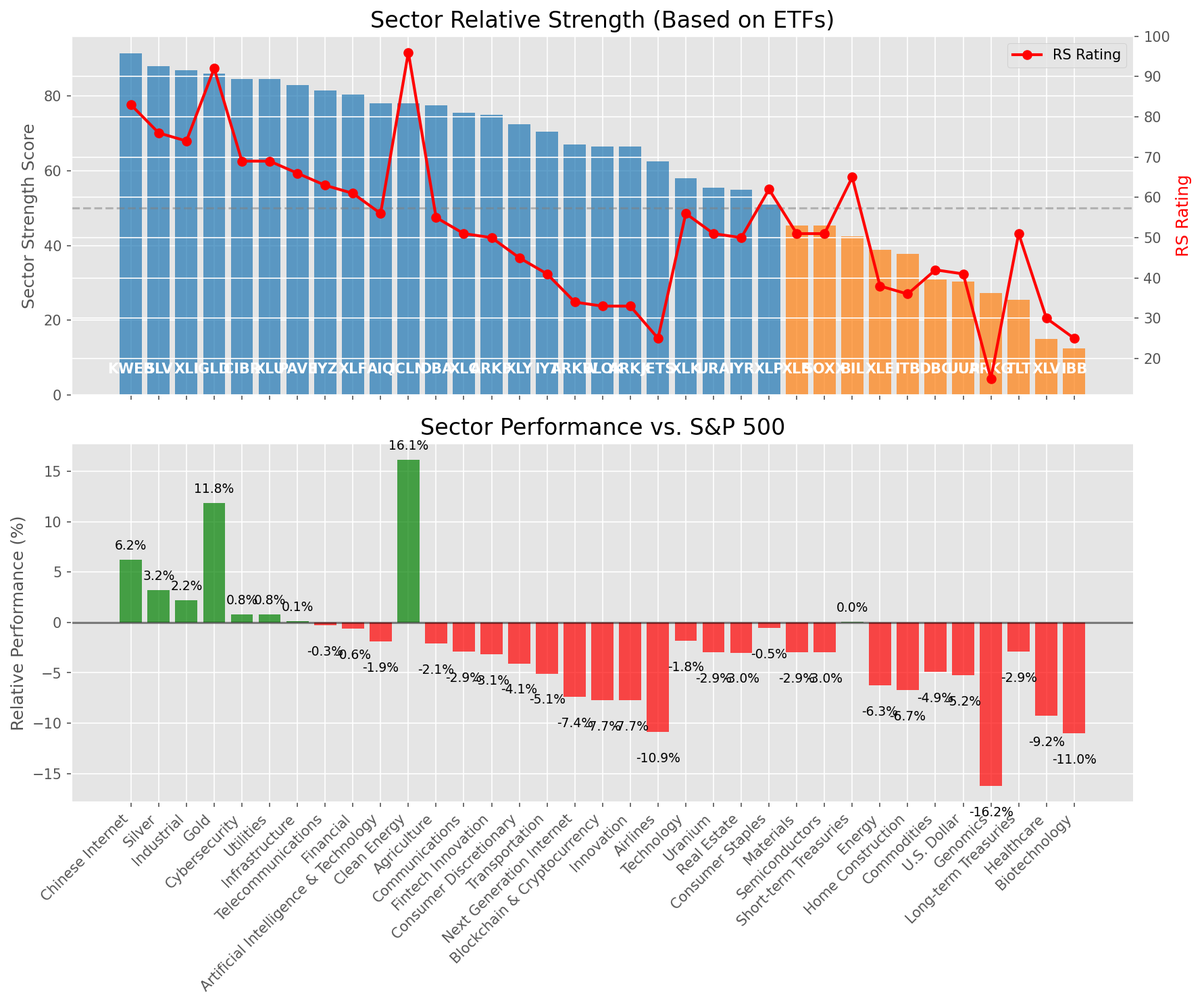
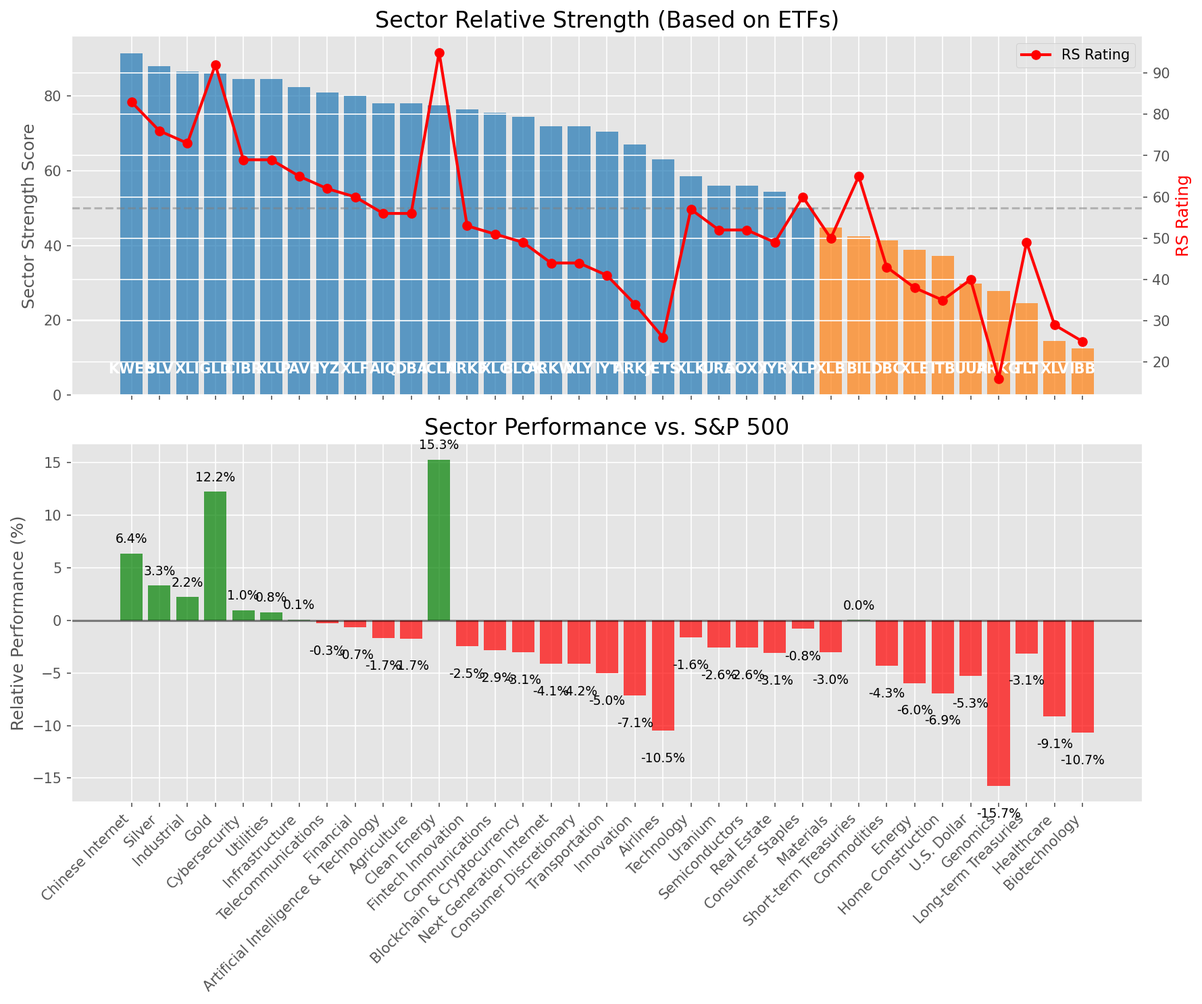
Add market report for 2025-05-13

diff --git a/oneil_relative_strength_report_2025-05-13.md b/oneil_relative_strength_report_2025-05-13.md
@@ -49,41 +49,41 @@ Based on William O'Neil's Relative Strength Methodology
 
 | ETF | Strength | RS Rating | Performance | Above Key MAs | Trend | Sector |
 |-----|----------|-----------|-------------|--------------|-------|--------|
-| [KWEB](https://www.tradingview.com/chart/?symbol=KWEB) | 91.5 | 83.0 | 6.22% | 10d ✓, 50d ✓, 200d ✓ | ↗ | Chinese Internet |
-| [SLV](https://www.tradingview.com/chart/?symbol=SLV) | 88.0 | 76.0 | 3.21% | 10d ✓, 50d ✓, 200d ✓ | ↗ | Silver |
-| [XLI](https://www.tradingview.com/chart/?symbol=XLI) | 87.0 | 74.0 | 2.20% | 10d ✓, 50d ✓, 200d ✓ | ↗ | Industrial |
-| [GLD](https://www.tradingview.com/chart/?symbol=GLD) | 86.1 | 92.0 | 11.84% | 10d ✗, 50d ✓, 200d ✓ | ↗ | Gold |
-| [CIBR](https://www.tradingview.com/chart/?symbol=CIBR) | 84.5 | 69.0 | 0.81% | 10d ✓, 50d ✓, 200d ✓ | ↗ | Cybersecurity |
-| [XLU](https://www.tradingview.com/chart/?symbol=XLU) | 84.5 | 69.0 | 0.78% | 10d ✓, 50d ✓, 200d ✓ | ↗ | Utilities |
-| [PAVE](https://www.tradingview.com/chart/?symbol=PAVE) | 83.0 | 66.0 | 0.11% | 10d ✓, 50d ✓, 200d ✓ | ↗ | Infrastructure |
-| [IYZ](https://www.tradingview.com/chart/?symbol=IYZ) | 81.5 | 63.0 | -0.29% | 10d ✓, 50d ✓, 200d ✓ | ↗ | Telecommunications |
-| [XLF](https://www.tradingview.com/chart/?symbol=XLF) | 80.5 | 61.0 | -0.64% | 10d ✓, 50d ✓, 200d ✓ | ↗ | Financial |
-| [AIQ](https://www.tradingview.com/chart/?symbol=AIQ) | 78.0 | 56.0 | -1.90% | 10d ✓, 50d ✓, 200d ✓ | ↗ | Artificial Intelligence & Technology |
-| [ICLN](https://www.tradingview.com/chart/?symbol=ICLN) | 78.0 | 96.0 | 16.14% | 10d ✓, 50d ✓, 200d ✓ | ↘ | Clean Energy |
-| [DBA](https://www.tradingview.com/chart/?symbol=DBA) | 77.5 | 55.0 | -2.10% | 10d ✓, 50d ✓, 200d ✓ | ↗ | Agriculture |
-| [XLC](https://www.tradingview.com/chart/?symbol=XLC) | 75.5 | 51.0 | -2.92% | 10d ✓, 50d ✓, 200d ✓ | ↗ | Communications |
-| [ARKF](https://www.tradingview.com/chart/?symbol=ARKF) | 75.0 | 50.0 | -3.14% | 10d ✓, 50d ✓, 200d ✓ | ↗ | Fintech Innovation |
-| [XLY](https://www.tradingview.com/chart/?symbol=XLY) | 72.5 | 45.0 | -4.07% | 10d ✓, 50d ✓, 200d ✓ | ↗ | Consumer Discretionary |
-| [IYT](https://www.tradingview.com/chart/?symbol=IYT) | 70.5 | 41.0 | -5.07% | 10d ✓, 50d ✓, 200d ✓ | ↗ | Transportation |
-| [ARKW](https://www.tradingview.com/chart/?symbol=ARKW) | 67.0 | 34.0 | -7.39% | 10d ✓, 50d ✓, 200d ✓ | ↗ | Next Generation Internet |
-| [BLOK](https://www.tradingview.com/chart/?symbol=BLOK) | 66.5 | 33.0 | -7.72% | 10d ✓, 50d ✓, 200d ✓ | ↗ | Blockchain & Cryptocurrency |
-| [ARKK](https://www.tradingview.com/chart/?symbol=ARKK) | 66.5 | 33.0 | -7.72% | 10d ✓, 50d ✓, 200d ✓ | ↗ | Innovation |
-| [JETS](https://www.tradingview.com/chart/?symbol=JETS) | 62.5 | 25.0 | -10.86% | 10d ✓, 50d ✓, 200d ✓ | ↗ | Airlines |
-| [XLK](https://www.tradingview.com/chart/?symbol=XLK) | 58.0 | 56.0 | -1.83% | 10d ✓, 50d ✓, 200d ✓ | ↘ | Technology |
-| [URA](https://www.tradingview.com/chart/?symbol=URA) | 55.5 | 51.0 | -2.94% | 10d ✓, 50d ✓, 200d ✓ | ↘ | Uranium |
-| [IYR](https://www.tradingview.com/chart/?symbol=IYR) | 54.9 | 50.0 | -3.00% | 10d ✗, 50d ✓, 200d ✗ | ↗ | Real Estate |
-| [XLP](https://www.tradingview.com/chart/?symbol=XLP) | 51.0 | 62.0 | -0.53% | 10d ✗, 50d ✗, 200d ✗ | ↗ | Consumer Staples |
-| [XLB](https://www.tradingview.com/chart/?symbol=XLB) | 45.3 | 51.0 | -2.95% | 10d ✓, 50d ✓, 200d ✗ | ↘ | Materials |
-| [SOXX](https://www.tradingview.com/chart/?symbol=SOXX) | 45.3 | 51.0 | -2.96% | 10d ✓, 50d ✓, 200d ✗ | ↘ | Semiconductors |
-| [BIL](https://www.tradingview.com/chart/?symbol=BIL) | 42.4 | 65.0 | 0.03% | 10d ✓, 50d ✗, 200d ✗ | ↘ | Short-term Treasuries |
-| [XLE](https://www.tradingview.com/chart/?symbol=XLE) | 38.8 | 38.0 | -6.25% | 10d ✓, 50d ✓, 200d ✗ | ↘ | Energy |
-| [ITB](https://www.tradingview.com/chart/?symbol=ITB) | 37.8 | 36.0 | -6.73% | 10d ✓, 50d ✓, 200d ✗ | ↘ | Home Construction |
-| [DBC](https://www.tradingview.com/chart/?symbol=DBC) | 30.9 | 42.0 | -4.90% | 10d ✓, 50d ✗, 200d ✗ | ↘ | Commodities |
-| [UUP](https://www.tradingview.com/chart/?symbol=UUP) | 30.4 | 41.0 | -5.23% | 10d ✓, 50d ✗, 200d ✗ | ↘ | U.S. Dollar |
-| [ARKG](https://www.tradingview.com/chart/?symbol=ARKG) | 27.3 | 15.0 | -16.23% | 10d ✓, 50d ✓, 200d ✗ | ↘ | Genomics |
-| [TLT](https://www.tradingview.com/chart/?symbol=TLT) | 25.5 | 51.0 | -2.89% | 10d ✗, 50d ✗, 200d ✗ | ↘ | Long-term Treasuries |
-| [XLV](https://www.tradingview.com/chart/?symbol=XLV) | 15.0 | 30.0 | -9.24% | 10d ✗, 50d ✗, 200d ✗ | ↘ | Healthcare |
-| [IBB](https://www.tradingview.com/chart/?symbol=IBB) | 12.5 | 25.0 | -11.01% | 10d ✗, 50d ✗, 200d ✗ | ↘ | Biotechnology |
+| [KWEB](https://www.tradingview.com/chart/?symbol=KWEB) | 91.5 | 83.0 | 6.37% | 10d ✓, 50d ✓, 200d ✓ | ↗ | Chinese Internet |
+| [SLV](https://www.tradingview.com/chart/?symbol=SLV) | 88.0 | 76.0 | 3.31% | 10d ✓, 50d ✓, 200d ✓ | ↗ | Silver |
+| [XLI](https://www.tradingview.com/chart/?symbol=XLI) | 86.5 | 73.0 | 2.23% | 10d ✓, 50d ✓, 200d ✓ | ↗ | Industrial |
+| [GLD](https://www.tradingview.com/chart/?symbol=GLD) | 86.1 | 92.0 | 12.23% | 10d ✗, 50d ✓, 200d ✓ | ↗ | Gold |
+| [CIBR](https://www.tradingview.com/chart/?symbol=CIBR) | 84.5 | 69.0 | 0.97% | 10d ✓, 50d ✓, 200d ✓ | ↗ | Cybersecurity |
+| [XLU](https://www.tradingview.com/chart/?symbol=XLU) | 84.5 | 69.0 | 0.77% | 10d ✓, 50d ✓, 200d ✓ | ↗ | Utilities |
+| [PAVE](https://www.tradingview.com/chart/?symbol=PAVE) | 82.5 | 65.0 | 0.06% | 10d ✓, 50d ✓, 200d ✓ | ↗ | Infrastructure |
+| [IYZ](https://www.tradingview.com/chart/?symbol=IYZ) | 81.0 | 62.0 | -0.29% | 10d ✓, 50d ✓, 200d ✓ | ↗ | Telecommunications |
+| [XLF](https://www.tradingview.com/chart/?symbol=XLF) | 80.0 | 60.0 | -0.68% | 10d ✓, 50d ✓, 200d ✓ | ↗ | Financial |
+| [AIQ](https://www.tradingview.com/chart/?symbol=AIQ) | 78.0 | 56.0 | -1.67% | 10d ✓, 50d ✓, 200d ✓ | ↗ | Artificial Intelligence & Technology |
+| [DBA](https://www.tradingview.com/chart/?symbol=DBA) | 78.0 | 56.0 | -1.72% | 10d ✓, 50d ✓, 200d ✓ | ↗ | Agriculture |
+| [ICLN](https://www.tradingview.com/chart/?symbol=ICLN) | 77.5 | 95.0 | 15.29% | 10d ✓, 50d ✓, 200d ✓ | ↘ | Clean Energy |
+| [ARKF](https://www.tradingview.com/chart/?symbol=ARKF) | 76.5 | 53.0 | -2.47% | 10d ✓, 50d ✓, 200d ✓ | ↗ | Fintech Innovation |
+| [XLC](https://www.tradingview.com/chart/?symbol=XLC) | 75.5 | 51.0 | -2.86% | 10d ✓, 50d ✓, 200d ✓ | ↗ | Communications |
+| [BLOK](https://www.tradingview.com/chart/?symbol=BLOK) | 74.5 | 49.0 | -3.05% | 10d ✓, 50d ✓, 200d ✓ | ↗ | Blockchain & Cryptocurrency |
+| [ARKW](https://www.tradingview.com/chart/?symbol=ARKW) | 72.0 | 44.0 | -4.12% | 10d ✓, 50d ✓, 200d ✓ | ↗ | Next Generation Internet |
+| [XLY](https://www.tradingview.com/chart/?symbol=XLY) | 72.0 | 44.0 | -4.15% | 10d ✓, 50d ✓, 200d ✓ | ↗ | Consumer Discretionary |
+| [IYT](https://www.tradingview.com/chart/?symbol=IYT) | 70.5 | 41.0 | -5.03% | 10d ✓, 50d ✓, 200d ✓ | ↗ | Transportation |
+| [ARKK](https://www.tradingview.com/chart/?symbol=ARKK) | 67.0 | 34.0 | -7.14% | 10d ✓, 50d ✓, 200d ✓ | ↗ | Innovation |
+| [JETS](https://www.tradingview.com/chart/?symbol=JETS) | 63.0 | 26.0 | -10.49% | 10d ✓, 50d ✓, 200d ✓ | ↗ | Airlines |
+| [XLK](https://www.tradingview.com/chart/?symbol=XLK) | 58.5 | 57.0 | -1.62% | 10d ✓, 50d ✓, 200d ✓ | ↘ | Technology |
+| [URA](https://www.tradingview.com/chart/?symbol=URA) | 56.0 | 52.0 | -2.59% | 10d ✓, 50d ✓, 200d ✓ | ↘ | Uranium |
+| [SOXX](https://www.tradingview.com/chart/?symbol=SOXX) | 56.0 | 52.0 | -2.61% | 10d ✓, 50d ✓, 200d ✓ | ↘ | Semiconductors |
+| [IYR](https://www.tradingview.com/chart/?symbol=IYR) | 54.4 | 49.0 | -3.12% | 10d ✗, 50d ✓, 200d ✗ | ↗ | Real Estate |
+| [XLP](https://www.tradingview.com/chart/?symbol=XLP) | 50.0 | 60.0 | -0.78% | 10d ✗, 50d ✗, 200d ✗ | ↗ | Consumer Staples |
+| [XLB](https://www.tradingview.com/chart/?symbol=XLB) | 44.8 | 50.0 | -3.02% | 10d ✓, 50d ✓, 200d ✗ | ↘ | Materials |
+| [BIL](https://www.tradingview.com/chart/?symbol=BIL) | 42.4 | 65.0 | 0.02% | 10d ✓, 50d ✗, 200d ✗ | ↘ | Short-term Treasuries |
+| [DBC](https://www.tradingview.com/chart/?symbol=DBC) | 41.3 | 43.0 | -4.34% | 10d ✓, 50d ✓, 200d ✗ | ↘ | Commodities |
+| [XLE](https://www.tradingview.com/chart/?symbol=XLE) | 38.8 | 38.0 | -5.96% | 10d ✓, 50d ✓, 200d ✗ | ↘ | Energy |
+| [ITB](https://www.tradingview.com/chart/?symbol=ITB) | 37.3 | 35.0 | -6.93% | 10d ✓, 50d ✓, 200d ✗ | ↘ | Home Construction |
+| [UUP](https://www.tradingview.com/chart/?symbol=UUP) | 29.9 | 40.0 | -5.27% | 10d ✓, 50d ✗, 200d ✗ | ↘ | U.S. Dollar |
+| [ARKG](https://www.tradingview.com/chart/?symbol=ARKG) | 27.8 | 16.0 | -15.75% | 10d ✓, 50d ✓, 200d ✗ | ↘ | Genomics |
+| [TLT](https://www.tradingview.com/chart/?symbol=TLT) | 24.5 | 49.0 | -3.13% | 10d ✗, 50d ✗, 200d ✗ | ↘ | Long-term Treasuries |
+| [XLV](https://www.tradingview.com/chart/?symbol=XLV) | 14.5 | 29.0 | -9.14% | 10d ✗, 50d ✗, 200d ✗ | ↘ | Healthcare |
+| [IBB](https://www.tradingview.com/chart/?symbol=IBB) | 12.5 | 25.0 | -10.70% | 10d ✗, 50d ✗, 200d ✗ | ↘ | Biotechnology |
 
 ### **Sector ETF Performance Interpretation**
 
@@ -100,175 +100,180 @@ This table shows the relative strength metrics for different market sectors base
 
 The current market leadership is coming from the following sectors: **Chinese Internet, Silver, Industrial**.
 
-The **Chinese Internet** sector (represented by **KWEB**) is showing particularly strong relative strength with an RS rating of 83.0 and performance of 6.22% vs. the S&P 500. This sector is trading above its 10-day, 50-day, 200-day moving average(s). Investors should consider focusing on high RS stocks within these leading sectors for potential outperformance.
+The **Chinese Internet** sector (represented by **KWEB**) is showing particularly strong relative strength with an RS rating of 83.0 and performance of 6.37% vs. the S&P 500. This sector is trading above its 10-day, 50-day, 200-day moving average(s). Investors should consider focusing on high RS stocks within these leading sectors for potential outperformance.
 
 ---
 
 ## **Buy Recommendations**
 
-The following 72 stocks show exceptional relative strength:
+The following 76 stocks show exceptional relative strength:
 
 | RS Rating | Buy Score | Current Price | Chart | Name | Ticker |
 |-----------|-----------|---------------|-------|------|--------|
-| 100 | 100 | $27.57 | [Chart](https://www.tradingview.com/chart/?symbol=DB) | Deutsche Bank Aktiengesellschaft | DB |
-| 100 | 100 | $48.79 | [Chart](https://www.tradingview.com/chart/?symbol=MRX) | Marex Group plc Ordinary Shares | MRX |
+| 100 | 100 | $48.96 | [Chart](https://www.tradingview.com/chart/?symbol=MRX) | Marex Group plc Ordinary Shares | MRX |
+| 100 | 100 | $27.64 | [Chart](https://www.tradingview.com/chart/?symbol=DB) | Deutsche Bank Aktiengesellschaft | DB |
+| 100 | 100 | $89.70 | [Chart](https://www.tradingview.com/chart/?symbol=SEZL) | Sezzle Inc. Common Stock | SEZL |
+| 100 | 100 | $177.12 | [Chart](https://www.tradingview.com/chart/?symbol=DAVE) | Dave Inc. Class A Common Stock | DAVE |
+| 100 | 100 | $23.01 | [Chart](https://www.tradingview.com/chart/?symbol=PRA) | ProAssurance Corporation | PRA |
 | 100 | 100 | $155.30 | [Chart](https://www.tradingview.com/chart/?symbol=PLMR) | Palomar Holdings, Inc. Common stock | PLMR |
-| 100 | 100 | $23.00 | [Chart](https://www.tradingview.com/chart/?symbol=PRA) | ProAssurance Corporation | PRA |
-| 100 | 100 | $176.68 | [Chart](https://www.tradingview.com/chart/?symbol=DAVE) | Dave Inc. Class A Common Stock | DAVE |
-| 100 | 100 | $89.03 | [Chart](https://www.tradingview.com/chart/?symbol=SEZL) | Sezzle Inc. Common Stock | SEZL |
-| 99 | 100 | $410.20 | [Chart](https://www.tradingview.com/chart/?symbol=MSTR) | MicroStrategy Inc | MSTR |
-| 99 | 100 | $153.06 | [Chart](https://www.tradingview.com/chart/?symbol=ROOT) | Root, Inc. Class A Common Stock | ROOT |
-| 99 | 100 | $23.82 | [Chart](https://www.tradingview.com/chart/?symbol=CRK) | Comstock Resources, Inc. | CRK |
-| 99 | 100 | $24.17 | [Chart](https://www.tradingview.com/chart/?symbol=GRND) | Grindr Inc. | GRND |
-| 99 | 100 | $34.55 | [Chart](https://www.tradingview.com/chart/?symbol=AHR) | American Healthcare REIT, Inc. | AHR |
-| 99 | 100 | $70.39 | [Chart](https://www.tradingview.com/chart/?symbol=ULS) | UL Solutions Inc. | ULS |
-| 98 | 100 | $159.33 | [Chart](https://www.tradingview.com/chart/?symbol=HWM) | Howmet Aerospace Inc. | HWM |
-| 98 | 100 | $222.87 | [Chart](https://www.tradingview.com/chart/?symbol=CRS) | Carpenter Technology Corp | CRS |
+| 99 | 100 | $414.40 | [Chart](https://www.tradingview.com/chart/?symbol=MSTR) | MicroStrategy Inc | MSTR |
+| 99 | 100 | $151.14 | [Chart](https://www.tradingview.com/chart/?symbol=ROOT) | Root, Inc. Class A Common Stock | ROOT |
+| 99 | 100 | $23.92 | [Chart](https://www.tradingview.com/chart/?symbol=CRK) | Comstock Resources, Inc. | CRK |
+| 99 | 100 | $70.11 | [Chart](https://www.tradingview.com/chart/?symbol=ULS) | UL Solutions Inc. | ULS |
+| 99 | 100 | $34.68 | [Chart](https://www.tradingview.com/chart/?symbol=AHR) | American Healthcare REIT, Inc. | AHR |
+| 99 | 100 | $23.96 | [Chart](https://www.tradingview.com/chart/?symbol=GRND) | Grindr Inc. | GRND |
+| 98 | 100 | $129.37 | [Chart](https://www.tradingview.com/chart/?symbol=ATGE) | Adtalem Global Education Inc. Common Shares | ATGE |
 | 98 | 100 | $131.44 | [Chart](https://www.tradingview.com/chart/?symbol=VSEC) | VSE Corp | VSEC |
-| 98 | 100 | $131.89 | [Chart](https://www.tradingview.com/chart/?symbol=ATGE) | Adtalem Global Education Inc. Common Shares | ATGE |
-| 97 | 100 | $41.05 | [Chart](https://www.tradingview.com/chart/?symbol=DRS) | Leonardo DRS, Inc. Common Stock | DRS |
-| 97 | 100 | $152.79 | [Chart](https://www.tradingview.com/chart/?symbol=SE) | Sea Limited American Depositary Shares, each representing one Class A Ordinary Share | SE |
-| 97 | 100 | $49.50 | [Chart](https://www.tradingview.com/chart/?symbol=ERJ) | Embraer S.A. | ERJ |
-| 97 | 100 | $38.20 | [Chart](https://www.tradingview.com/chart/?symbol=PAY) | Paymentus Holdings, Inc. | PAY |
-| 97 | 100 | $30.80 | [Chart](https://www.tradingview.com/chart/?symbol=EUFN) | iShares MSCI Europe Financials ETF | EUFN |
-| 96 | 100 | $62.05 | [Chart](https://www.tradingview.com/chart/?symbol=HOOD) | Robinhood Markets, Inc. Class A Common Stock | HOOD |
-| 96 | 100 | $148.79 | [Chart](https://www.tradingview.com/chart/?symbol=CAH) | Cardinal Health, Inc. | CAH |
-| 96 | 100 | $124.50 | [Chart](https://www.tradingview.com/chart/?symbol=COOP) | Mr. Cooper Group Inc. Common Stock | COOP |
-| 96 | 100 | $129.18 | [Chart](https://www.tradingview.com/chart/?symbol=HIG) | The Hartford Insurance Group, Inc. | HIG |
-| 95 | 100 | $27.87 | [Chart](https://www.tradingview.com/chart/?symbol=FMS) | Fresenius Medical Care AG | FMS |
-| 95 | 100 | $33.66 | [Chart](https://www.tradingview.com/chart/?symbol=SLM) | SLM Corporation | SLM |
+| 98 | 100 | $41.10 | [Chart](https://www.tradingview.com/chart/?symbol=EWP) | iShares MSCI Spain ETF | EWP |
+| 98 | 100 | $159.51 | [Chart](https://www.tradingview.com/chart/?symbol=HWM) | Howmet Aerospace Inc. | HWM |
+| 98 | 100 | $38.38 | [Chart](https://www.tradingview.com/chart/?symbol=PAY) | Paymentus Holdings, Inc. | PAY |
+| 97 | 100 | $63.25 | [Chart](https://www.tradingview.com/chart/?symbol=HOOD) | Robinhood Markets, Inc. Class A Common Stock | HOOD |
+| 97 | 100 | $223.95 | [Chart](https://www.tradingview.com/chart/?symbol=CRS) | Carpenter Technology Corp | CRS |
+| 97 | 100 | $126.92 | [Chart](https://www.tradingview.com/chart/?symbol=COOP) | Mr. Cooper Group Inc. Common Stock | COOP |
+| 97 | 100 | $153.42 | [Chart](https://www.tradingview.com/chart/?symbol=SE) | Sea Limited American Depositary Shares, each representing one Class A Ordinary Share | SE |
+| 96 | 100 | $33.78 | [Chart](https://www.tradingview.com/chart/?symbol=SLM) | SLM Corporation | SLM |
+| 96 | 100 | $117.51 | [Chart](https://www.tradingview.com/chart/?symbol=EHC) | Encompass Health Corporation Common Stock | EHC |
+| 96 | 100 | $49.19 | [Chart](https://www.tradingview.com/chart/?symbol=ERJ) | Embraer S.A. | ERJ |
+| 96 | 100 | $30.77 | [Chart](https://www.tradingview.com/chart/?symbol=EUFN) | iShares MSCI Europe Financials ETF | EUFN |
 | 95 | 100 | $40.57 | [Chart](https://www.tradingview.com/chart/?symbol=EWG) | iShares MSCI Germany ETF | EWG |
-| 95 | 100 | $76.48 | [Chart](https://www.tradingview.com/chart/?symbol=RBLX) | Roblox Corporation | RBLX |
-| 94 | 100 | $87.62 | [Chart](https://www.tradingview.com/chart/?symbol=TGLS) | Tecnoglass Inc. | TGLS |
-| 94 | 100 | $82.31 | [Chart](https://www.tradingview.com/chart/?symbol=RBRK) | Rubrik, Inc. | RBRK |
-| 94 | 100 | $61.79 | [Chart](https://www.tradingview.com/chart/?symbol=CHEF) | The Chef's Warehouse Inc | CHEF |
-| 94 | 100 | $1140.11 | [Chart](https://www.tradingview.com/chart/?symbol=NFLX) | NetFlix Inc | NFLX |
+| 95 | 100 | $27.99 | [Chart](https://www.tradingview.com/chart/?symbol=FMS) | Fresenius Medical Care AG | FMS |
+| 95 | 100 | $83.60 | [Chart](https://www.tradingview.com/chart/?symbol=RBRK) | Rubrik, Inc. | RBRK |
+| 95 | 100 | $129.00 | [Chart](https://www.tradingview.com/chart/?symbol=HIG) | The Hartford Insurance Group, Inc. | HIG |
+| 95 | 100 | $76.29 | [Chart](https://www.tradingview.com/chart/?symbol=RBLX) | Roblox Corporation | RBLX |
+| 94 | 100 | $127.82 | [Chart](https://www.tradingview.com/chart/?symbol=PLTR) | Palantir Technologies Inc. Class A Common Stock | PLTR |
 | 94 | 100 | $40.87 | [Chart](https://www.tradingview.com/chart/?symbol=AB) | AllianceBernstein Holding, L.P. | AB |
-| 93 | 100 | $320.58 | [Chart](https://www.tradingview.com/chart/?symbol=PODD) | Insulet Corporation | PODD |
-| 93 | 100 | $31.43 | [Chart](https://www.tradingview.com/chart/?symbol=UTI) | Universal Technical Institute, Inc. | UTI |
-| 92 | 100 | $23.75 | [Chart](https://www.tradingview.com/chart/?symbol=SRAD) | Sportradar Group AG Class A Ordinary Shares | SRAD |
-| 92 | 100 | $16.96 | [Chart](https://www.tradingview.com/chart/?symbol=BCS) | Barclays PLC | BCS |
-| 92 | 100 | $44.61 | [Chart](https://www.tradingview.com/chart/?symbol=TOST) | Toast, Inc. | TOST |
-| 92 | 100 | $298.40 | [Chart](https://www.tradingview.com/chart/?symbol=PEN) | Penumbra, Inc. | PEN |
-| 91 | 100 | $124.91 | [Chart](https://www.tradingview.com/chart/?symbol=PLTR) | Palantir Technologies Inc. Class A Common Stock | PLTR |
-| 91 | 100 | $104.27 | [Chart](https://www.tradingview.com/chart/?symbol=RBA) | RB Global, Inc. | RBA |
-| 90 | 100 | $95.44 | [Chart](https://www.tradingview.com/chart/?symbol=HEES) | H&E Equipment Services, Inc. | HEES |
+| 94 | 100 | $61.79 | [Chart](https://www.tradingview.com/chart/?symbol=CHEF) | The Chef's Warehouse Inc | CHEF |
+| 94 | 100 | $31.72 | [Chart](https://www.tradingview.com/chart/?symbol=UTI) | Universal Technical Institute, Inc. | UTI |
+| 93 | 100 | $22.43 | [Chart](https://www.tradingview.com/chart/?symbol=LAUR) | Laureate Education, Inc. Common Stock | LAUR |
+| 93 | 100 | $46.48 | [Chart](https://www.tradingview.com/chart/?symbol=QFIN) | Qifu Technology, Inc. American Depositary Shares | QFIN |
+| 93 | 100 | $320.21 | [Chart](https://www.tradingview.com/chart/?symbol=PODD) | Insulet Corporation | PODD |
+| 93 | 100 | $87.24 | [Chart](https://www.tradingview.com/chart/?symbol=TGLS) | Tecnoglass Inc. | TGLS |
+| 93 | 100 | $23.97 | [Chart](https://www.tradingview.com/chart/?symbol=SRAD) | Sportradar Group AG Class A Ordinary Shares | SRAD |
+| 93 | 100 | $1140.56 | [Chart](https://www.tradingview.com/chart/?symbol=NFLX) | NetFlix Inc | NFLX |
+| 92 | 100 | $44.87 | [Chart](https://www.tradingview.com/chart/?symbol=TOST) | Toast, Inc. | TOST |
+| 91 | 100 | $298.87 | [Chart](https://www.tradingview.com/chart/?symbol=PEN) | Penumbra, Inc. | PEN |
+| 91 | 100 | $16.98 | [Chart](https://www.tradingview.com/chart/?symbol=BCS) | Barclays PLC | BCS |
+| 91 | 100 | $104.04 | [Chart](https://www.tradingview.com/chart/?symbol=RBA) | RB Global, Inc. | RBA |
 | 90 | 100 | $100.54 | [Chart](https://www.tradingview.com/chart/?symbol=AXS) | Axis Capital Holders Limited | AXS |
-| 90 | 100 | $52.34 | [Chart](https://www.tradingview.com/chart/?symbol=EPR) | EPR Properties | EPR |
+| 90 | 100 | $95.37 | [Chart](https://www.tradingview.com/chart/?symbol=HEES) | H&E Equipment Services, Inc. | HEES |
+| 89 | 100 | $297.25 | [Chart](https://www.tradingview.com/chart/?symbol=CVNA) | Carvana Co. | CVNA |
 | 88 | 100 | $25.09 | [Chart](https://www.tradingview.com/chart/?symbol=EWS) | iShares MSCI Singapore ETF | EWS |
-| 88 | 100 | $195.73 | [Chart](https://www.tradingview.com/chart/?symbol=LOPE) | Grand Canyon Education, Inc | LOPE |
-| 88 | 100 | $81.56 | [Chart](https://www.tradingview.com/chart/?symbol=UNM) | Unum Group | UNM |
-| 89 | 99 | $31.08 | [Chart](https://www.tradingview.com/chart/?symbol=PRDO) | Perdoceo Education Corporation | PRDO |
-| 89 | 99 | $70.00 | [Chart](https://www.tradingview.com/chart/?symbol=BROS) | Dutch Bros Inc. | BROS |
-| 89 | 98 | $58.97 | [Chart](https://www.tradingview.com/chart/?symbol=IBIT) | iShares Bitcoin Trust ETF | IBIT |
+| 87 | 100 | $81.53 | [Chart](https://www.tradingview.com/chart/?symbol=UNM) | Unum Group | UNM |
+| 89 | 99 | $31.09 | [Chart](https://www.tradingview.com/chart/?symbol=PRDO) | Perdoceo Education Corporation | PRDO |
+| 89 | 99 | $52.06 | [Chart](https://www.tradingview.com/chart/?symbol=EPR) | EPR Properties | EPR |
+| 89 | 99 | $70.37 | [Chart](https://www.tradingview.com/chart/?symbol=BROS) | Dutch Bros Inc. | BROS |
+| 87 | 99 | $195.73 | [Chart](https://www.tradingview.com/chart/?symbol=LOPE) | Grand Canyon Education, Inc | LOPE |
+| 89 | 98 | $59.34 | [Chart](https://www.tradingview.com/chart/?symbol=IBIT) | iShares Bitcoin Trust ETF | IBIT |
 | 88 | 98 | $13.35 | [Chart](https://www.tradingview.com/chart/?symbol=CNH) | CNH INDUSTRIAL N.V. | CNH |
-| 87 | 98 | $68.16 | [Chart](https://www.tradingview.com/chart/?symbol=CTVA) | Corteva, Inc. Common Stock | CTVA |
-| 87 | 98 | $293.51 | [Chart](https://www.tradingview.com/chart/?symbol=CVNA) | Carvana Co. | CVNA |
-| 86 | 98 | $720.36 | [Chart](https://www.tradingview.com/chart/?symbol=AXON) | Axon Enterprise, Inc. Common Stock | AXON |
-| 85 | 97 | $58.55 | [Chart](https://www.tradingview.com/chart/?symbol=HSBC) | HSBC Holdings PLC | HSBC |
-| 86 | 96 | $35.86 | [Chart](https://www.tradingview.com/chart/?symbol=FXI) | iShares China Large-Cap ETF | FXI |
-| 86 | 96 | $17.41 | [Chart](https://www.tradingview.com/chart/?symbol=MIR) | Mirion Technologies, Inc. | MIR |
-| 85 | 96 | $74.50 | [Chart](https://www.tradingview.com/chart/?symbol=USFD) | US Foods Holding Corp. | USFD |
-| 84 | 96 | $207.41 | [Chart](https://www.tradingview.com/chart/?symbol=DRI) | Darden Restaurants, Inc. | DRI |
-| 85 | 95 | $62.81 | [Chart](https://www.tradingview.com/chart/?symbol=GGAL) | Grupo Financiero Galicia SA | GGAL |
+| 87 | 98 | $68.15 | [Chart](https://www.tradingview.com/chart/?symbol=CTVA) | Corteva, Inc. Common Stock | CTVA |
+| 86 | 98 | $722.50 | [Chart](https://www.tradingview.com/chart/?symbol=AXON) | Axon Enterprise, Inc. Common Stock | AXON |
+| 87 | 97 | $63.45 | [Chart](https://www.tradingview.com/chart/?symbol=GGAL) | Grupo Financiero Galicia SA | GGAL |
+| 85 | 97 | $58.47 | [Chart](https://www.tradingview.com/chart/?symbol=HSBC) | HSBC Holdings PLC | HSBC |
+| 86 | 96 | $35.90 | [Chart](https://www.tradingview.com/chart/?symbol=FXI) | iShares China Large-Cap ETF | FXI |
+| 86 | 96 | $17.47 | [Chart](https://www.tradingview.com/chart/?symbol=MIR) | Mirion Technologies, Inc. | MIR |
+| 85 | 96 | $74.89 | [Chart](https://www.tradingview.com/chart/?symbol=USFD) | US Foods Holding Corp. | USFD |
+| 84 | 96 | $207.47 | [Chart](https://www.tradingview.com/chart/?symbol=DRI) | Darden Restaurants, Inc. | DRI |
 | 84 | 95 | $203.25 | [Chart](https://www.tradingview.com/chart/?symbol=BAP) | Credicorp LTD | BAP |
-| 84 | 95 | $222.20 | [Chart](https://www.tradingview.com/chart/?symbol=GE) | GE Aerospace | GE |
-| 83 | 94 | $167.51 | [Chart](https://www.tradingview.com/chart/?symbol=ITA) | iShares U.S. Aerospace & Defense ETF | ITA |
-| 81 | 94 | $217.54 | [Chart](https://www.tradingview.com/chart/?symbol=IDCC) | InterDigital, Inc. | IDCC |
-| 82 | 93 | $206.16 | [Chart](https://www.tradingview.com/chart/?symbol=DFS) | Discover Financial Services | DFS |
-| 82 | 93 | $31.10 | [Chart](https://www.tradingview.com/chart/?symbol=AS) | Amer Sports, Inc. | AS |
-| 83 | 92 | $22.44 | [Chart](https://www.tradingview.com/chart/?symbol=KAR) | OPENLANE, Inc | KAR |
-| 82 | 92 | $57.18 | [Chart](https://www.tradingview.com/chart/?symbol=IGF) | iShares Global Infrastructure ETF | IGF |
-| 81 | 91 | $13.06 | [Chart](https://www.tradingview.com/chart/?symbol=MUFG) | Mitsubishi UFJ Financial Group, Inc. | MUFG |
-| 80 | 90 | $58.33 | [Chart](https://www.tradingview.com/chart/?symbol=BAM) | Brookfield Asset Management Ltd. | BAM |
-| 80 | 89 | $28.95 | [Chart](https://www.tradingview.com/chart/?symbol=TGS) | Transportadora de Gas del Sur S.A. ADS | TGS |
+| 84 | 95 | $31.41 | [Chart](https://www.tradingview.com/chart/?symbol=AS) | Amer Sports, Inc. | AS |
+| 83 | 94 | $167.41 | [Chart](https://www.tradingview.com/chart/?symbol=ITA) | iShares U.S. Aerospace & Defense ETF | ITA |
+| 82 | 93 | $206.67 | [Chart](https://www.tradingview.com/chart/?symbol=DFS) | Discover Financial Services | DFS |
+| 82 | 93 | $221.59 | [Chart](https://www.tradingview.com/chart/?symbol=GE) | GE Aerospace | GE |
+| 80 | 93 | $217.54 | [Chart](https://www.tradingview.com/chart/?symbol=IDCC) | InterDigital, Inc. | IDCC |
+| 82 | 92 | $57.26 | [Chart](https://www.tradingview.com/chart/?symbol=IGF) | iShares Global Infrastructure ETF | IGF |
+| 81 | 92 | $23.80 | [Chart](https://www.tradingview.com/chart/?symbol=CPRX) | Catalyst Pharmaceutical  Inc. | CPRX |
+| 82 | 91 | $22.36 | [Chart](https://www.tradingview.com/chart/?symbol=KAR) | OPENLANE, Inc | KAR |
+| 81 | 91 | $13.08 | [Chart](https://www.tradingview.com/chart/?symbol=MUFG) | Mitsubishi UFJ Financial Group, Inc. | MUFG |
+| 80 | 91 | $23.05 | [Chart](https://www.tradingview.com/chart/?symbol=BTSG) | BrightSpring Health Services, Inc. Common Stock | BTSG |
+| 81 | 90 | $29.64 | [Chart](https://www.tradingview.com/chart/?symbol=TGS) | Transportadora de Gas del Sur S.A. ADS | TGS |
+| 80 | 90 | $58.39 | [Chart](https://www.tradingview.com/chart/?symbol=BAM) | Brookfield Asset Management Ltd. | BAM |
 
 ---
 
 
 ## **Sell Recommendations**
 
-The following 77 stocks show deteriorating relative strength:
+The following 78 stocks show deteriorating relative strength:
 
 | RS Rating | Sell Score | Current Price | Chart | Name | Ticker |
 |-----------|------------|---------------|-------|------|--------|
 | 1 | 100 | $10.18 | [Chart](https://www.tradingview.com/chart/?symbol=NRIX) | Nurix Therapeutics, Inc. Common stock | NRIX |
-| 1 | 100 | $19.39 | [Chart](https://www.tradingview.com/chart/?symbol=BHVN) | Biohaven Ltd. | BHVN |
-| 3 | 100 | $29.56 | [Chart](https://www.tradingview.com/chart/?symbol=CRTO) | Criteo S.A. | CRTO |
-| 3 | 100 | $13.10 | [Chart](https://www.tradingview.com/chart/?symbol=MNRO) | Monro, Inc. Common Stock | MNRO |
-| 4 | 100 | $13.42 | [Chart](https://www.tradingview.com/chart/?symbol=FL) | Foot Locker, Inc. | FL |
-| 4 | 100 | $10.68 | [Chart](https://www.tradingview.com/chart/?symbol=LSPD) | Lightspeed Commerce Inc. | LSPD |
-| 4 | 100 | $32.08 | [Chart](https://www.tradingview.com/chart/?symbol=TWST) | Twist Bioscience Corporation Common Stock | TWST |
-| 4 | 100 | $12.05 | [Chart](https://www.tradingview.com/chart/?symbol=ARCT) | Arcturus Therapeutics Holdings Inc. Common Stock | ARCT |
-| 5 | 100 | $27.80 | [Chart](https://www.tradingview.com/chart/?symbol=JACK) | Jack in the Box Inc. | JACK |
-| 5 | 100 | $12.66 | [Chart](https://www.tradingview.com/chart/?symbol=LBRT) | Liberty Energy Inc. | LBRT |
-| 5 | 100 | $33.63 | [Chart](https://www.tradingview.com/chart/?symbol=AAP) | ADVANCE AUTO PARTS INC | AAP |
+| 1 | 100 | $19.61 | [Chart](https://www.tradingview.com/chart/?symbol=BHVN) | Biohaven Ltd. | BHVN |
+| 3 | 100 | $13.20 | [Chart](https://www.tradingview.com/chart/?symbol=FL) | Foot Locker, Inc. | FL |
+| 3 | 100 | $13.08 | [Chart](https://www.tradingview.com/chart/?symbol=MNRO) | Monro, Inc. Common Stock | MNRO |
+| 4 | 100 | $32.31 | [Chart](https://www.tradingview.com/chart/?symbol=TWST) | Twist Bioscience Corporation Common Stock | TWST |
+| 4 | 100 | $10.76 | [Chart](https://www.tradingview.com/chart/?symbol=LSPD) | Lightspeed Commerce Inc. | LSPD |
+| 4 | 100 | $30.37 | [Chart](https://www.tradingview.com/chart/?symbol=CRTO) | Criteo S.A. | CRTO |
+| 4 | 100 | $27.75 | [Chart](https://www.tradingview.com/chart/?symbol=JACK) | Jack in the Box Inc. | JACK |
+| 4 | 100 | $12.18 | [Chart](https://www.tradingview.com/chart/?symbol=ARCT) | Arcturus Therapeutics Holdings Inc. Common Stock | ARCT |
 | 5 | 100 | $28.01 | [Chart](https://www.tradingview.com/chart/?symbol=SRDX) | Surmodics, Inc. Common Stock | SRDX |
-| 5 | 100 | $10.39 | [Chart](https://www.tradingview.com/chart/?symbol=HPK) | HighPeak Energy, Inc. Common Stock | HPK |
-| 6 | 100 | $13.97 | [Chart](https://www.tradingview.com/chart/?symbol=IMVT) | Immunovant, Inc. Common Stock | IMVT |
-| 6 | 100 | $30.93 | [Chart](https://www.tradingview.com/chart/?symbol=CYTK) | Cytokinetics Inc. | CYTK |
+| 5 | 100 | $10.36 | [Chart](https://www.tradingview.com/chart/?symbol=HPK) | HighPeak Energy, Inc. Common Stock | HPK |
+| 5 | 100 | $12.66 | [Chart](https://www.tradingview.com/chart/?symbol=LBRT) | Liberty Energy Inc. | LBRT |
+| 5 | 100 | $33.38 | [Chart](https://www.tradingview.com/chart/?symbol=AAP) | ADVANCE AUTO PARTS INC | AAP |
+| 6 | 100 | $14.06 | [Chart](https://www.tradingview.com/chart/?symbol=IMVT) | Immunovant, Inc. Common Stock | IMVT |
+| 6 | 100 | $26.89 | [Chart](https://www.tradingview.com/chart/?symbol=TRN) | Trinity Industries, Inc. | TRN |
 | 7 | 100 | $129.24 | [Chart](https://www.tradingview.com/chart/?symbol=TFX) | Teleflex Incorporated | TFX |
-| 12 | 100 | $48.19 | [Chart](https://www.tradingview.com/chart/?symbol=RHI) | Robert Half Inc. | RHI |
-| 14 | 100 | $10.34 | [Chart](https://www.tradingview.com/chart/?symbol=CMRE) | Costamare Inc. | CMRE |
-| 16 | 100 | $19.67 | [Chart](https://www.tradingview.com/chart/?symbol=NVDS) | Investment Managers Series Trust II Tradr 1.5X Short NVDA Daily ETF | NVDS |
+| 7 | 100 | $31.02 | [Chart](https://www.tradingview.com/chart/?symbol=CYTK) | Cytokinetics Inc. | CYTK |
+| 11 | 100 | $47.86 | [Chart](https://www.tradingview.com/chart/?symbol=RHI) | Robert Half Inc. | RHI |
+| 15 | 100 | $10.34 | [Chart](https://www.tradingview.com/chart/?symbol=CMRE) | Costamare Inc. | CMRE |
+| 15 | 100 | $19.58 | [Chart](https://www.tradingview.com/chart/?symbol=NVDS) | Investment Managers Series Trust II Tradr 1.5X Short NVDA Daily ETF | NVDS |
 | 19 | 100 | $13.12 | [Chart](https://www.tradingview.com/chart/?symbol=MED) | Medifast, Inc. | MED |
-| 5 | 99 | $26.49 | [Chart](https://www.tradingview.com/chart/?symbol=TRN) | Trinity Industries, Inc. | TRN |
-| 13 | 99 | $17.51 | [Chart](https://www.tradingview.com/chart/?symbol=IDYA) | IDEAYA Biosciences, Inc. Common Stock | IDYA |
 | 5 | 98 | $10.31 | [Chart](https://www.tradingview.com/chart/?symbol=VREX) | Varex Imaging Corporation Common Stock | VREX |
 | 10 | 98 | $10.03 | [Chart](https://www.tradingview.com/chart/?symbol=MTAL) | MAC Copper Limited | MTAL |
-| 18 | 97 | $35.91 | [Chart](https://www.tradingview.com/chart/?symbol=SLB) | Schlumberger Limited | SLB |
-| 21 | 97 | $28.54 | [Chart](https://www.tradingview.com/chart/?symbol=AGIO) | Agios Pharmaceuticals, Inc. | AGIO |
+| 14 | 98 | $17.65 | [Chart](https://www.tradingview.com/chart/?symbol=IDYA) | IDEAYA Biosciences, Inc. Common Stock | IDYA |
 | 8 | 96 | $32.55 | [Chart](https://www.tradingview.com/chart/?symbol=MBIN) | Merchants Bancorp Common Stock | MBIN |
-| 6 | 95 | $15.52 | [Chart](https://www.tradingview.com/chart/?symbol=DQ) | Daqo New Energy Corp. American Depositary Shares (each representing 5 Ordinary Shares) | DQ |
-| 15 | 95 | $52.31 | [Chart](https://www.tradingview.com/chart/?symbol=ERX) | Direxion Daily Energy Bull 2X Shares | ERX |
-| 10 | 94 | $35.04 | [Chart](https://www.tradingview.com/chart/?symbol=TECS) | Direxion Daily Technology Bear 3x Shares | TECS |
-| 11 | 94 | $12.30 | [Chart](https://www.tradingview.com/chart/?symbol=APLE) | Apple Hospitality REIT, Inc. | APLE |
-| 11 | 93 | $11.03 | [Chart](https://www.tradingview.com/chart/?symbol=ABR) | Arbor Realty Trust, Inc. | ABR |
+| 22 | 96 | $28.70 | [Chart](https://www.tradingview.com/chart/?symbol=AGIO) | Agios Pharmaceuticals, Inc. | AGIO |
+| 5 | 95 | $15.17 | [Chart](https://www.tradingview.com/chart/?symbol=DQ) | Daqo New Energy Corp. American Depositary Shares (each representing 5 Ordinary Shares) | DQ |
+| 19 | 95 | $36.06 | [Chart](https://www.tradingview.com/chart/?symbol=SLB) | Schlumberger Limited | SLB |
+| 9 | 94 | $34.79 | [Chart](https://www.tradingview.com/chart/?symbol=TECS) | Direxion Daily Technology Bear 3x Shares | TECS |
+| 16 | 94 | $52.76 | [Chart](https://www.tradingview.com/chart/?symbol=ERX) | Direxion Daily Energy Bull 2X Shares | ERX |
 | 13 | 93 | $16.30 | [Chart](https://www.tradingview.com/chart/?symbol=CHCT) | Community Healthcare Trust Incorporated Common Stock, $0.01 par value per share | CHCT |
 | 16 | 93 | $13.31 | [Chart](https://www.tradingview.com/chart/?symbol=ZUMZ) | Zumiez Inc. | ZUMZ |
-| 11 | 92 | $52.65 | [Chart](https://www.tradingview.com/chart/?symbol=PRCT) | PROCEPT BioRobotics Corporation Common Stock | PRCT |
-| 11 | 90 | $14.95 | [Chart](https://www.tradingview.com/chart/?symbol=INMD) | InMode Ltd. Ordinary Shares | INMD |
-| 16 | 90 | $12.06 | [Chart](https://www.tradingview.com/chart/?symbol=WEN) | The Wendy's Company | WEN |
-| 20 | 90 | $30.10 | [Chart](https://www.tradingview.com/chart/?symbol=LEGN) | Legend Biotech Corporation American Depositary Shares | LEGN |
-| 21 | 90 | $51.15 | [Chart](https://www.tradingview.com/chart/?symbol=LW) | Lamb Weston Holdings, Inc. | LW |
-| 27 | 90 | $148.80 | [Chart](https://www.tradingview.com/chart/?symbol=MTN) | Vail Resorts, Inc. | MTN |
-| 16 | 89 | $21.84 | [Chart](https://www.tradingview.com/chart/?symbol=SIRI) | Sirius XM Holdings,  Inc | SIRI |
-| 17 | 89 | $84.44 | [Chart](https://www.tradingview.com/chart/?symbol=WHR) | Whirlpool Corp. | WHR |
-| 21 | 88 | $20.39 | [Chart](https://www.tradingview.com/chart/?symbol=BITI) | ProShares Short Bitcoin ETF | BITI |
+| 10 | 92 | $52.76 | [Chart](https://www.tradingview.com/chart/?symbol=PRCT) | PROCEPT BioRobotics Corporation Common Stock | PRCT |
+| 11 | 92 | $11.05 | [Chart](https://www.tradingview.com/chart/?symbol=ABR) | Arbor Realty Trust, Inc. | ABR |
+| 12 | 92 | $12.46 | [Chart](https://www.tradingview.com/chart/?symbol=APLE) | Apple Hospitality REIT, Inc. | APLE |
+| 26 | 91 | $148.80 | [Chart](https://www.tradingview.com/chart/?symbol=MTN) | Vail Resorts, Inc. | MTN |
+| 11 | 90 | $14.90 | [Chart](https://www.tradingview.com/chart/?symbol=INMD) | InMode Ltd. Ordinary Shares | INMD |
+| 16 | 90 | $12.04 | [Chart](https://www.tradingview.com/chart/?symbol=WEN) | The Wendy's Company | WEN |
+| 19 | 89 | $20.28 | [Chart](https://www.tradingview.com/chart/?symbol=BITI) | ProShares Short Bitcoin ETF | BITI |
+| 21 | 89 | $51.28 | [Chart](https://www.tradingview.com/chart/?symbol=LW) | Lamb Weston Holdings, Inc. | LW |
 | 20 | 87 | $12.76 | [Chart](https://www.tradingview.com/chart/?symbol=DBO) | Invesco DB Oil Fund | DBO |
 | 20 | 86 | $19.55 | [Chart](https://www.tradingview.com/chart/?symbol=AAT) | AMERICAN ASSETS TRUST, INC. | AAT |
-| 21 | 84 | $36.54 | [Chart](https://www.tradingview.com/chart/?symbol=BHE) | Benchmark Electronics | BHE |
-| 31 | 84 | $31.15 | [Chart](https://www.tradingview.com/chart/?symbol=ZSL) | ProShares UltraShort Silver | ZSL |
-| 21 | 83 | $10.54 | [Chart](https://www.tradingview.com/chart/?symbol=AVO) | Mission Produce, Inc. Common Stock | AVO |
-| 22 | 83 | $17.04 | [Chart](https://www.tradingview.com/chart/?symbol=MLNK) | MeridianLink, Inc. | MLNK |
-| 22 | 83 | $14.64 | [Chart](https://www.tradingview.com/chart/?symbol=RYLD) | Global X Russell 2000 Covered Call ETF | RYLD |
-| 30 | 82 | $233.69 | [Chart](https://www.tradingview.com/chart/?symbol=HUM) | Humana Inc. | HUM |
-| 34 | 82 | $64.62 | [Chart](https://www.tradingview.com/chart/?symbol=ZROZ) | PIMCO 25+ Year Zero Coupon U.S. Treasury Index Exchange-Traded Fund | ZROZ |
-| 27 | 81 | $27.98 | [Chart](https://www.tradingview.com/chart/?symbol=BNO) | United States Brent Oil Fund, LP | BNO |
-| 22 | 80 | $16.42 | [Chart](https://www.tradingview.com/chart/?symbol=QYLD) | Global X Funds Global X NASDAQ-100 Covered Call ETF | QYLD |
+| 24 | 86 | $30.73 | [Chart](https://www.tradingview.com/chart/?symbol=LEGN) | Legend Biotech Corporation American Depositary Shares | LEGN |
+| 20 | 85 | $36.54 | [Chart](https://www.tradingview.com/chart/?symbol=BHE) | Benchmark Electronics | BHE |
+| 30 | 85 | $31.10 | [Chart](https://www.tradingview.com/chart/?symbol=ZSL) | ProShares UltraShort Silver | ZSL |
+| 20 | 84 | $10.54 | [Chart](https://www.tradingview.com/chart/?symbol=AVO) | Mission Produce, Inc. Common Stock | AVO |
+| 32 | 83 | $64.40 | [Chart](https://www.tradingview.com/chart/?symbol=ZROZ) | PIMCO 25+ Year Zero Coupon U.S. Treasury Index Exchange-Traded Fund | ZROZ |
+| 22 | 82 | $14.64 | [Chart](https://www.tradingview.com/chart/?symbol=RYLD) | Global X Russell 2000 Covered Call ETF | RYLD |
+| 19 | 81 | $15.52 | [Chart](https://www.tradingview.com/chart/?symbol=BCSF) | Bain Capital Specialty Finance, Inc. | BCSF |
+| 28 | 81 | $53.70 | [Chart](https://www.tradingview.com/chart/?symbol=GIS) | General Mills, Inc. | GIS |
+| 24 | 80 | $31.86 | [Chart](https://www.tradingview.com/chart/?symbol=KRC) | Kilroy Realty Corp. | KRC |
 | 26 | 80 | $43.67 | [Chart](https://www.tradingview.com/chart/?symbol=FEPI) | REX FANG & Innovation Equity Premium Income ETF | FEPI |
-| 22 | 79 | $115.95 | [Chart](https://www.tradingview.com/chart/?symbol=EOG) | EOG Resources, Inc. | EOG |
-| 25 | 79 | $31.93 | [Chart](https://www.tradingview.com/chart/?symbol=KRC) | Kilroy Realty Corp. | KRC |
-| 30 | 79 | $53.87 | [Chart](https://www.tradingview.com/chart/?symbol=GIS) | General Mills, Inc. | GIS |
-| 33 | 79 | $135.32 | [Chart](https://www.tradingview.com/chart/?symbol=HES) | Hess Corporation | HES |
-| 36 | 78 | $25.50 | [Chart](https://www.tradingview.com/chart/?symbol=RCI) | Rogers Communications, Inc. | RCI |
-| 37 | 78 | $59.51 | [Chart](https://www.tradingview.com/chart/?symbol=BMRN) | BioMarin Pharmaceuticals Inc | BMRN |
-| 32 | 77 | $14.32 | [Chart](https://www.tradingview.com/chart/?symbol=OCSL) | Oaktree Specialty Lending Corporation | OCSL |
-| 33 | 77 | $13.96 | [Chart](https://www.tradingview.com/chart/?symbol=BSM) | Black Stone Minerals, L.P. | BSM |
-| 30 | 76 | $14.46 | [Chart](https://www.tradingview.com/chart/?symbol=BMEZ) | BlackRock Health Sciences Term Trust | BMEZ |
-| 39 | 76 | $10.88 | [Chart](https://www.tradingview.com/chart/?symbol=LBTYA) | Liberty Global Ltd. Class A Common Shares | LBTYA |
-| 31 | 75 | $14.74 | [Chart](https://www.tradingview.com/chart/?symbol=HR) | Healthcare Realty Trust Incorporated | HR |
-| 31 | 75 | $10.78 | [Chart](https://www.tradingview.com/chart/?symbol=SCS) | Steelcase, Inc. | SCS |
-| 36 | 74 | $35.33 | [Chart](https://www.tradingview.com/chart/?symbol=CPB) | The Campbell's Company Common Stock | CPB |
-| 28 | 73 | $141.85 | [Chart](https://www.tradingview.com/chart/?symbol=CVX) | Chevron Corporation | CVX |
-| 29 | 72 | $12.02 | [Chart](https://www.tradingview.com/chart/?symbol=TWO) | Two Harbors Investment Corp. | TWO |
-| 30 | 72 | $270.15 | [Chart](https://www.tradingview.com/chart/?symbol=AMGN) | Amgen Inc | AMGN |
-| 37 | 71 | $35.45 | [Chart](https://www.tradingview.com/chart/?symbol=NSA) | National Storage Affiliates Trust | NSA |
-| 36 | 69 | $17.72 | [Chart](https://www.tradingview.com/chart/?symbol=JPMpM) | JPMorgan Chase & Co. Depositary Shares, each representing a 1/400th interest in a share of 4.20% Non-Cumulative Preferred Stock, Series MM | JPMpM |
-| 38 | 67 | $11.27 | [Chart](https://www.tradingview.com/chart/?symbol=MQY) | Blackrock Muni Yield Quality Fund, Inc | MQY |
-| 38 | 65 | $11.97 | [Chart](https://www.tradingview.com/chart/?symbol=NVG) | Nuveen AMT-Free Municipal Credit Income Fund | NVG |
-| 39 | 64 | $63.42 | [Chart](https://www.tradingview.com/chart/?symbol=BOIL) | ProShares Ultra Bloomberg Natural Gas | BOIL |
-| 37 | 63 | $158.54 | [Chart](https://www.tradingview.com/chart/?symbol=PG) | Procter & Gamble Company | PG |
+| 31 | 80 | $236.31 | [Chart](https://www.tradingview.com/chart/?symbol=HUM) | Humana Inc. | HUM |
+| 22 | 79 | $16.41 | [Chart](https://www.tradingview.com/chart/?symbol=QYLD) | Global X Funds Global X NASDAQ-100 Covered Call ETF | QYLD |
+| 23 | 78 | $116.75 | [Chart](https://www.tradingview.com/chart/?symbol=EOG) | EOG Resources, Inc. | EOG |
+| 34 | 78 | $135.99 | [Chart](https://www.tradingview.com/chart/?symbol=HES) | Hess Corporation | HES |
+| 35 | 78 | $25.50 | [Chart](https://www.tradingview.com/chart/?symbol=RCI) | Rogers Communications, Inc. | RCI |
+| 28 | 77 | $14.39 | [Chart](https://www.tradingview.com/chart/?symbol=BMEZ) | BlackRock Health Sciences Term Trust | BMEZ |
+| 32 | 77 | $13.94 | [Chart](https://www.tradingview.com/chart/?symbol=BSM) | Black Stone Minerals, L.P. | BSM |
+| 38 | 77 | $10.88 | [Chart](https://www.tradingview.com/chart/?symbol=LBTYA) | Liberty Global Ltd. Class A Common Shares | LBTYA |
+| 30 | 76 | $14.72 | [Chart](https://www.tradingview.com/chart/?symbol=HR) | Healthcare Realty Trust Incorporated | HR |
+| 30 | 76 | $10.73 | [Chart](https://www.tradingview.com/chart/?symbol=SCS) | Steelcase, Inc. | SCS |
+| 39 | 76 | $59.97 | [Chart](https://www.tradingview.com/chart/?symbol=BMRN) | BioMarin Pharmaceuticals Inc | BMRN |
+| 29 | 75 | $17.59 | [Chart](https://www.tradingview.com/chart/?symbol=MLNK) | MeridianLink, Inc. | MLNK |
+| 32 | 75 | $14.33 | [Chart](https://www.tradingview.com/chart/?symbol=OCSL) | Oaktree Specialty Lending Corporation | OCSL |
+| 34 | 75 | $35.18 | [Chart](https://www.tradingview.com/chart/?symbol=CPB) | The Campbell's Company Common Stock | CPB |
+| 28 | 73 | $142.44 | [Chart](https://www.tradingview.com/chart/?symbol=CVX) | Chevron Corporation | CVX |
+| 30 | 72 | $10.72 | [Chart](https://www.tradingview.com/chart/?symbol=LADR) | LADDER CAPITAL CORP | LADR |
+| 36 | 72 | $35.36 | [Chart](https://www.tradingview.com/chart/?symbol=NSA) | National Storage Affiliates Trust | NSA |
+| 31 | 71 | $270.92 | [Chart](https://www.tradingview.com/chart/?symbol=AMGN) | Amgen Inc | AMGN |
+| 35 | 70 | $17.72 | [Chart](https://www.tradingview.com/chart/?symbol=JPMpM) | JPMorgan Chase & Co. Depositary Shares, each representing a 1/400th interest in a share of 4.20% Non-Cumulative Preferred Stock, Series MM | JPMpM |
+| 37 | 69 | $10.54 | [Chart](https://www.tradingview.com/chart/?symbol=NMZ) | Nuveen Municipal High Income Opportunity Fund | NMZ |
+| 37 | 68 | $11.27 | [Chart](https://www.tradingview.com/chart/?symbol=MQY) | Blackrock Muni Yield Quality Fund, Inc | MQY |
+| 39 | 67 | $12.87 | [Chart](https://www.tradingview.com/chart/?symbol=PMT) | PennyMac Mortgage Investment Trust | PMT |
+| 37 | 66 | $11.95 | [Chart](https://www.tradingview.com/chart/?symbol=NVG) | Nuveen AMT-Free Municipal Credit Income Fund | NVG |
+| 38 | 65 | $26.14 | [Chart](https://www.tradingview.com/chart/?symbol=IRDM) | Iridium Communications Inc. | IRDM |
+| 39 | 65 | $10.68 | [Chart](https://www.tradingview.com/chart/?symbol=MYI) | BLACKROCK MUNIYIELD QUALITY FUND III, INC. | MYI |
+| 36 | 64 | $158.00 | [Chart](https://www.tradingview.com/chart/?symbol=PG) | Procter & Gamble Company | PG |
 
 ## **Methodology**
 
